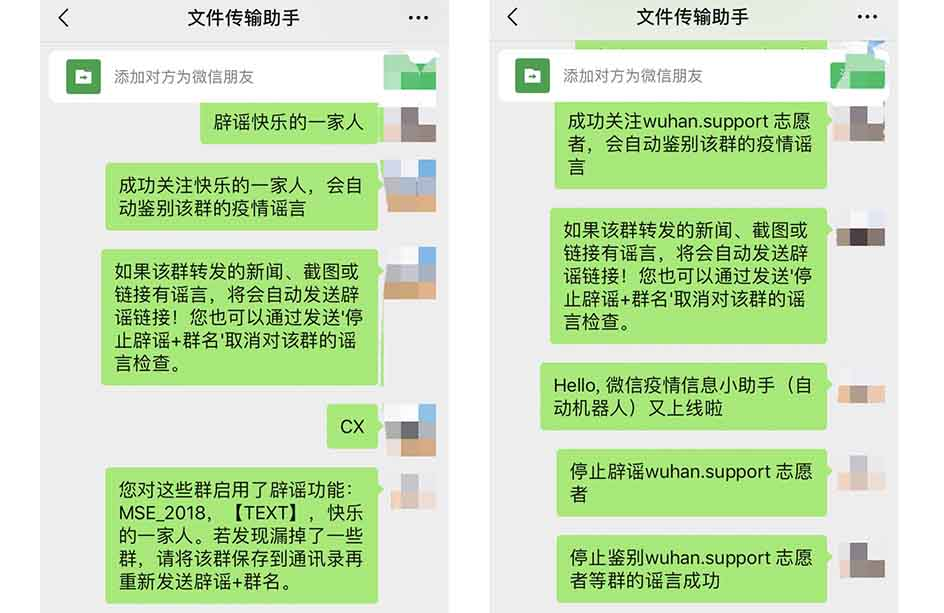
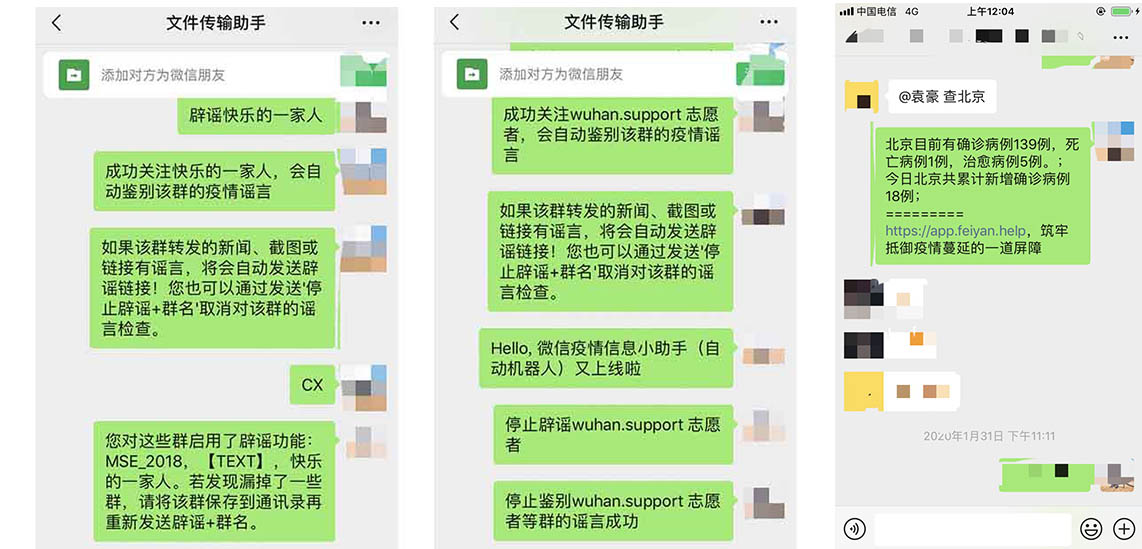
添加pyinstaller脚本

diff --git a/README.md b/README.md
@@ -1,13 +1,15 @@
 # 微信疫情信息小助手（非官方）使用指南
 
-### 
+开发者请查看开发者手册（待完善中）[开发者手册](./developer.md)
 
 ### 简介
 
 基于itchat，使用个人微信账户，利用爬虫信息从网络上搜集实时疫情数据，用户通过微信消息进行订阅，若出现相关信息，则主动对用户进行推送。可根据用户指令监控群聊，对群内出现的新闻、分享、图片自动进行辟谣。
 ![](resource/image/online.jpg)
-
 > 图1 登陆成功之后的提醒
+
+github:[robot-personal](https://github.com/wuhan-support/robot-personal)
+
 
 ## 功能列表
 
@@ -26,7 +28,7 @@
 
 ### 3.群聊辟谣机器人
 
-针对指定的微信群（主要是针对家族群这种年龄跨度较大的群），检测聊天记录中的新闻(长段文字)、分享（标题）、图片，将该信息拿到腾讯辟谣平台上进行搜索，若为谣言或存疑，则返回辟谣链接。
+针对指定的微信群（主要是针对家族群这种年龄跨度较大的群），检测聊天记录中的新闻(长段文字)、分享（标题），将该信息拿到腾讯辟谣平台上进行搜索，若为谣言或存疑，则返回辟谣链接。为了保护隐私，不会保存任何聊天数据，不会上传任何数据到服务器（与微信服务器的正常通信除外）
 
 #### 数据来源
 
@@ -36,43 +38,35 @@
 
 - 1.订阅指定微信群
 - 2.检测聊天记录中的新闻(长段文字)、分享（标题）、图片
-- 3.对长文提取文本摘要(开源工具：[SnowNLP](http://www.52nlp.cn/tag/snownlp))
-- 4.识别图片的文字并提取摘要(开源工具：[tesseract](https://github.com/tesseract-ocr))
+- 3.对长文提取文本摘要(仅在开发者版本中支持，开源工具：[SnowNLP](http://www.52nlp.cn/tag/snownlp))
+- 4.识别图片的文字并提取摘要(仅在开发者版本中支持，开源工具：[tesseract](https://github.com/tesseract-ocr))
 - 5.在腾讯辟谣平台上进行搜索并返回结果
 
-## 运行环境
+### 4.群聊实时数据查询
 
-- 数据库：Redis
-- 部署：Docker/Docker-compose
-
-因为项目存在大量依赖，所以强烈建议您使用docker部署。
-
-## 运行方式
-
-### 1.Windows
-
-- 1.安装 [Python](https://www.python.org/downloads/)，[git](https://git-scm.com/downloads)，并[确保环境变量已配置](https://www.cnblogs.com/cnwuchao/p/10562416.html)，即在命令行CMD窗口下，输入python或git有正确提示
- 
-若未安装git，可直接在github下载ZIP
-
-![](resource/image/download.png)
-> 图2 github直接下载zip
-
-- 3.打开Powershell（cmd也行，不建议）,输入如下指令：
-
-```
-# 已下载zip的则跳过这一步
-git clone https://github.com/wuhan-support/robot-personal.git && cd robot-personal
-pip install -i https://pypi.tuna.tsinghua.edu.cn/simple -r requirements.txt
-# 开始运行
-python StarRobot.py
-```
+- 接收群用户@并返回查询结果
 
 ### 使用方式
 
+#### 0.下载软件
+
+- 软件下载：
+
+	国内用户：[百度云](https://pan.baidu.com/s/1ZcZrBIqflHpmr2MkHLNYyA)
+	
+	国外用户：[谷歌Storage](https://drive.google.com/open?id=1UvB-ICQNvlCHeqBOZ1Qp4fNZisRt5L2d)
+
+
 #### 1.登陆
 
-二维码会打印在控制台上，扫码登陆成功后，文件传输助手会收到登陆成功的消息（如图2）。
+在软件根目录下双击StartRobot.exe（Mac上为StartRobot）开始运行，
+
+![](./resource/image/login.png)
+会弹出一个二维码，该二维码是微信网页版登陆的二维码
+
+如果您的微信扫码后提示“为了您的安全，无法登陆微信网页版”等字样，则您无法使用本软件。
+
+扫码登陆成功后，文件传输助手会收到登陆成功的消息（如图2）。
 
 向文件传入助手发送Help/帮助可以获得帮助信息（如图3-左）
 
@@ -101,12 +95,18 @@ python StarRobot.py
 
 ![](./resource/image/p4.jpg)
 
->图5：开启辟谣和停止辟谣
+>图5：（左）开启辟谣 （中）停止辟谣 （右）实时查询
+
+#### 4.群聊里查询实时数据
+
+群聊普通用户发送：@机器人查城市，比如@机器人查北京，则返回北京的疫情信息，如图5（右）。
 
 ### 使用注意
 
 1.本项目本质上是模拟网页版微信的操作，所以使用前请确保您的账号能登陆网页版微信。
 
-2.给同一人发送的类似的信息过多时，新发送的信息会无法送达，必须要该用户主动响应一下才行。这是微信的限制，很难解决。
+2.给同一人发送的类似的信息过多时，新发送的信息会无法送达，必须要该用户主动响应一下才行。这是好像是微信的限制，很难解决。
 
 3.本项目频繁使用之后可能会造成您无法无法登陆网页版微信。
+
+4.账号重新登陆之后之前的订阅会失效（短时间内重新热登陆不会），会在以后的版本中解决该问题
